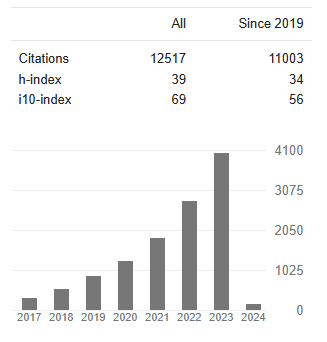
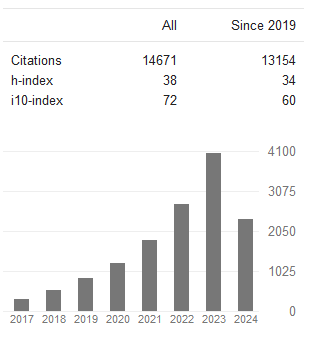
updated eccv

diff --git a/index.html b/index.html
@@ -56,7 +56,7 @@
                     <h3>About Me</h3>
                 </header>
                
-                Noel C. F. Codella is a Principal Researcher at Microsoft. His expertise spans topics across computer vision and healthcare, with publications in CVPR, ICCV, ECCV, ICLR, MICCAI, AAAI, Nature Medicine, Lancet Oncology, and other prestigious venues, some of which have been covered by major international news media organizations (CNN, Medgadget, etc.). Within computer vision, his expertise includes multimodal vision+language learning, transformer architectures, few-shot learning, video analysis, fairness, explainability, segmentation, and object detection. Within healthcare, his expertise includes MRI physics and data acquisition/reconstruction approaches, medical image analysis, electroencephalography, cardiac MRI, dermatology, and human physiology. Within the field of dermatology, he is co-founder of the International Skin Imaging Collaboration (ISIC) challenges on skin cancer classification, which have received over 114,000 total submissions from over 4,000 competitors to continuous live challenges (hosted at ISBI 2016-2017, MICCAI 2018-2020). These challenges have served as the foundation for numerous clinical studies of the performance of AI systems and how such systems can best integrate into clinical workflows. Dr. Codella has led collaborations with clinical experts on numerous clinical validation studies and assessments of machine learning error characteristics, fairness, and biases. In these works, he has developed state-of-art evaluation protocols that have exposed previously unidentified errors when compared with established metrics. These works have also set the stage for standards in AI development in dermatology (CLEAR Derm Consensus Guidelines). Dr. Codella has over 11,000 citations according to Google Scholar, and an h-index of 37.
+                Noel C. F. Codella is a Principal Researcher at Microsoft. His expertise spans topics across computer vision and healthcare, with publications in CVPR, ICCV, ECCV, ICLR, MICCAI, AAAI, Nature Medicine, Lancet Oncology, and other prestigious venues, some of which have been covered by major international news media organizations (CNN, Medgadget, etc.). Within computer vision, his expertise includes multimodal vision+language learning, transformer architectures, few-shot learning, video analysis, fairness, explainability, segmentation, and object detection. Within healthcare, his expertise includes MRI physics and data acquisition/reconstruction approaches, medical image analysis, electroencephalography, cardiac MRI, dermatology, and human physiology. Within the field of dermatology, he is co-founder of the International Skin Imaging Collaboration (ISIC) challenges on skin cancer classification, which have received over 114,000 total submissions from over 4,000 competitors to continuous live challenges (hosted at ISBI 2016-2017, MICCAI 2018-2020). These challenges have served as the foundation for numerous clinical studies of the performance of AI systems and how such systems can best integrate into clinical workflows. In these works, Dr. Codella has developed state-of-art evaluation protocols that have exposed previously unidentified errors when compared with established metrics, giving rise to new assessments of machine learning error characteristics, fairness, and biases. Such analyses have set the stage for standards in AI development in dermatology (CLEAR Derm Consensus Guidelines). Dr. Codella has over 14,000 citations according to Google Scholar, and an h-index of 38.
                 <!--I am a Principal Researcher at Microsoft. My expertise spans topics across computer vision and healthcare, with publications in CVPR, ICCV, ECCV, ICLR, MICCAI, AAAI, Nature Medicine, Lancet Oncology, and other prestigious venues, some of which have been covered by major international news media organizations (CNN, Medgadget, etc.). Within computer vision, my interests include multimodal vision+language learning, transformer architectures, few-shot learning, video analysis, fairness, explainability, segmentation, and object detection. Within healthcare, my expertise includes dermatology, medical image analysis, electroencephalography, cardiac MRI, and human physiology. In dermatology, I am a co-founder of the International Skin Imaging Collaboration (ISIC) challenges on skin cancer classification, which have received over 114,000 total submissions from over 4,000 competitors to continuous live challenges (hosted at ISBI 2016-2017, MICCAI 2018-2020). My Ph.D. research was focused on cardiac MRI in the department of Human Physiology at the Weill Medical College of Cornell University.
                 <br><br>
                 In addition to technical expertise building state-of-art machine learning systems and identifying new fields of study, I have fundamental expertise in application domain risks and costs, especially in healthcare, where I have led and collaborated on numerous clinical validation studies and assessments of machine learning error characteristics, fairness, and biases. In these works, I have developed state-of-art evaluation protocols that have exposed previously unidentified errors when compared with established metrics.
@@ -76,6 +76,7 @@
 
                 <br><h4>Recent News:</h4>
                 <ul>
+                    <li><b>07-02-2024:</b> <a href="https://arxiv.org/pdf/2311.15562">Fully Authentic Visual Question Answering Dataset from Online Communities</a> has been accepted to ECCV 2024</li>
                     <li><b>10-07-2023:</b> <a href="https://openreview.net/forum?id=T3n9nbeIKc&referrer=%5BAuthor%20Console%5D(%2Fgroup%3Fid%3DEMNLP%2F2023%2FConference%2FAuthors%23your-submissions)">Dataset Bias Mitigation in Multiple-Choice Visual Question Answering and Beyond</a> has been accepted to Findings of EMNLP 2023</li>
                     <li><b>09-07-2023:</b> <a href="https://www.sciencedirect.com/science/article/pii/S0022202X23025770">Expert agreement on the presence and spatial localization of melanocytic features in dermoscopy</a> published in Journal of Investigative Dermatology</li>
                     <li><b>07-27-2023:</b> <a href="https://www.nature.com/articles/s41591-023-02475-5">"A reinforcement learning model for AI-based decision support in skin cancer"</a> has been published in Nature Medicine</li>
@@ -146,6 +147,10 @@
                 <div class="table-wrapper">
                     <table>
                         <tbody>
+                        <tr>
+                            <td width="30%"><center><b>ECCV 2024</b><br><img src="images/papers/eccv2024.png" width="100%"></center></td>
+                            <td width="80%" style="vertical-align:middle;" valign="center"><b>Fully Authentic Visual Question Answering Dataset from Online Communities</b><br><br> Visual Question Answering (VQA) entails answering questions about authentic use case. Sourced from online question answering community forums, we call it VQAonline. We characterize this dataset and how it relates to eight mainstream VQA datasets. Observing that answers in our dataset tend to be much longer (i.e., a mean of 173 words) and so incompatible with standard VQA evaluation metrics, we instead utilize popular metrics for longer text evaluation for evaluating six state-of-the-art VQA models on VQAonline and report where they struggle most. Finally, we analyze which evaluation metrics align best with human judgments. <br><br>  [ <a href="https://arxiv.org/pdf/2311.15562">Paper</a> ] </td>
+                        </tr>
                         <tr>
                             <td width="30%"><center><b>EMNLP Findings 2023</b><br><img src="images/papers/findings2023.png" width="100%"></center></td>
                             <td width="80%" style="vertical-align:middle;" valign="center"><b>Dataset Bias Mitigation in Multiple-Choice Visual Question Answering and Beyond</b><br><br> Vision-language (VL) understanding tasks evaluate models' comprehension of complex visual scenes through multiple-choice questions. However, we have identified two dataset biases that models can exploit as shortcuts to resolve various VL tasks correctly without proper understanding. The first type of dataset bias is Unbalanced Matching bias, where the correct answer overlaps the question and image more than the incorrect answers. The second type of dataset bias is Distractor Similarity bias, where incorrect answers are overly dissimilar to the correct answer but significantly similar to other incorrect answers within the same sample. To address these dataset biases, we first propose Adversarial Data Synthesis (ADS) to generate synthetic training and debiased evaluation data. We then introduce Intra-sample Counterfactual Training (ICT) to assist models in utilizing the synthesized training data, particularly the counterfactual data, via focusing on intra-sample differentiation. Extensive experiments demonstrate the effectiveness of ADS and ICT in consistently improving model performance across different benchmarks, even in domain-shifted scenarios. <br><br>  [ <a href="https://openreview.net/forum?id=T3n9nbeIKc&referrer=%5BAuthor%20Console%5D(%2Fgroup%3Fid%3DEMNLP%2F2023%2FConference%2FAuthors%23your-submissions)">Paper</a> ] </td>
